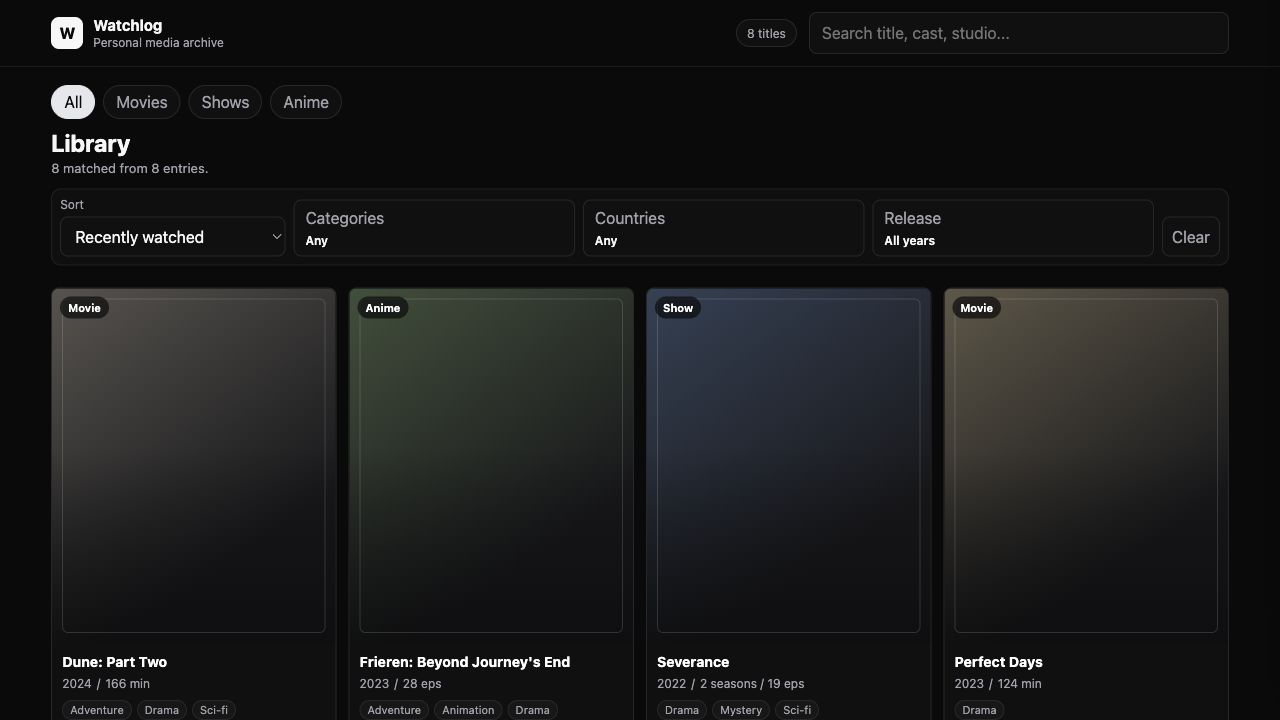
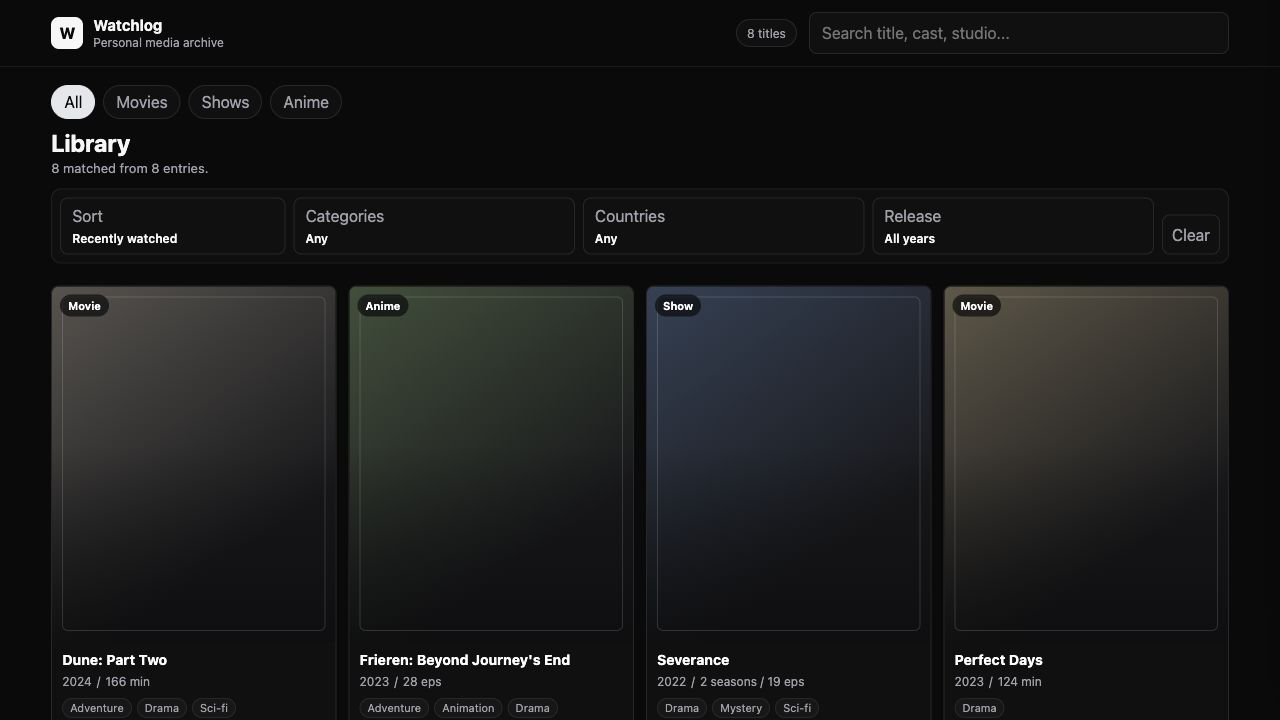
Replace sort select with custom filter dropdown

diff --git a/app.js b/app.js
@@ -7,6 +7,13 @@ const KIND_OPTIONS = [
   { id: "anime", label: "Anime" }
 ];
 
+const SORT_OPTIONS = [
+  { id: "recent", label: "Recently watched" },
+  { id: "title", label: "Title" },
+  { id: "year", label: "Release year" },
+  { id: "runtime", label: "Runtime" }
+];
+
 const years = WATCH_ITEMS.map(item => item.releaseYear);
 const yearBounds = {
   min: Math.min(...years),
@@ -36,7 +43,8 @@ const els = {
   cardGrid: document.querySelector("#cardGrid"),
   emptyState: document.querySelector("#emptyState"),
   searchInput: document.querySelector("#searchInput"),
-  sortSelect: document.querySelector("#sortSelect"),
+  sortMenu: document.querySelector("#sortMenu"),
+  sortSummary: document.querySelector("#sortSummary"),
   resultSummary: document.querySelector("#resultSummary"),
   libraryCount: document.querySelector("#libraryCount"),
   clearFilters: document.querySelector("#clearFilters"),
@@ -137,6 +145,14 @@ function renderFormatTabs() {
 }
 
 function renderDropdownOptions() {
+  els.sortMenu.innerHTML = SORT_OPTIONS.map(option => `
+    <button class="menu-button ${state.sort === option.id ? "active" : ""}"
+      type="button"
+      data-sort="${option.id}">
+      ${option.label}
+    </button>
+  `).join("");
+
   els.categoryMenu.innerHTML = CATEGORY_OPTIONS.map(category => `
     <label class="check-row">
       <input type="checkbox" value="${category}" data-filter="category" ${state.categories.has(category) ? "checked" : ""} />
@@ -169,6 +185,7 @@ function summarizeSelection(values, formatter = value => value) {
 }
 
 function renderFilterLabels() {
+  els.sortSummary.textContent = SORT_OPTIONS.find(option => option.id === state.sort)?.label || "Recently watched";
   els.categorySummary.textContent = summarizeSelection(state.categories);
   els.countrySummary.textContent = summarizeSelection(state.countries, countryLabel);
   els.releaseSummary.textContent =
@@ -397,8 +414,13 @@ els.searchInput.addEventListener("input", event => {
   renderCards();
 });
 
-els.sortSelect.addEventListener("change", event => {
-  state.sort = event.target.value;
+els.sortMenu.addEventListener("click", event => {
+  const option = event.target.closest("[data-sort]");
+  if (!option) return;
+  state.sort = option.dataset.sort;
+  closeDropdowns();
+  renderDropdownOptions();
+  renderFilterLabels();
   renderCards();
 });
 

diff --git a/index.html b/index.html
@@ -39,15 +39,13 @@
             </div>
 
             <section class="filter-bar" aria-label="Filters">
-              <label class="filter-select">
-                <span>Sort</span>
-                <select id="sortSelect">
-                  <option value="recent">Recently watched</option>
-                  <option value="title">Title</option>
-                  <option value="year">Release year</option>
-                  <option value="runtime">Runtime</option>
-                </select>
-              </label>
+              <div class="dropdown-filter" data-dropdown="sort">
+                <button class="filter-trigger" type="button" aria-expanded="false">
+                  <span>Sort</span>
+                  <strong id="sortSummary">Recently watched</strong>
+                </button>
+                <div class="filter-menu" id="sortMenu"></div>
+              </div>
 
               <div class="dropdown-filter" data-dropdown="categories">
                 <button class="filter-trigger" type="button" aria-expanded="false">

diff --git a/styles.css b/styles.css
@@ -253,20 +253,6 @@ select {
   position: relative;
 }
 
-.filter-select {
-  display: grid;
-  gap: 5px;
-}
-
-.filter-select span {
-  color: var(--muted);
-  font-size: 12px;
-}
-
-.filter-select select {
-  width: 100%;
-}
-
 .filter-trigger {
   width: 100%;
   min-height: 54px;
@@ -332,6 +318,26 @@ select {
   padding: 0 8px;
   color: #e4e4e7;
   cursor: pointer;
+}
+
+.menu-button {
+  width: 100%;
+  min-height: 36px;
+  border: 1px solid transparent;
+  border-radius: calc(var(--radius) - 2px);
+  padding: 0 8px;
+  background: transparent;
+  color: #e4e4e7;
+  text-align: left;
+}
+
+.menu-button:hover {
+  background: rgba(255, 255, 255, 0.04);
+}
+
+.menu-button.active {
+  background: var(--accent);
+  color: var(--accent-ink);
 }
 
 .check-row:hover {
